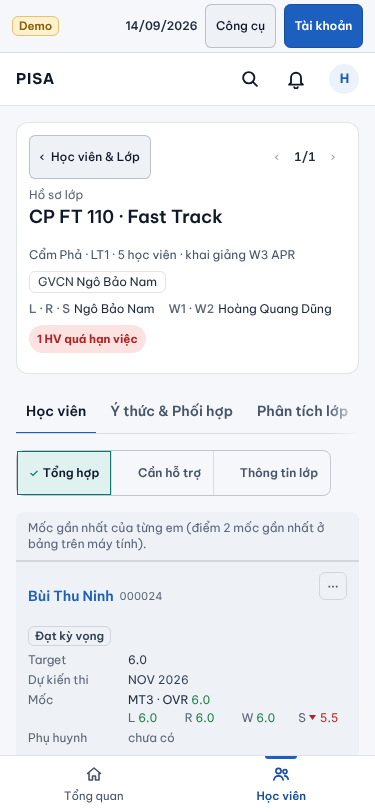
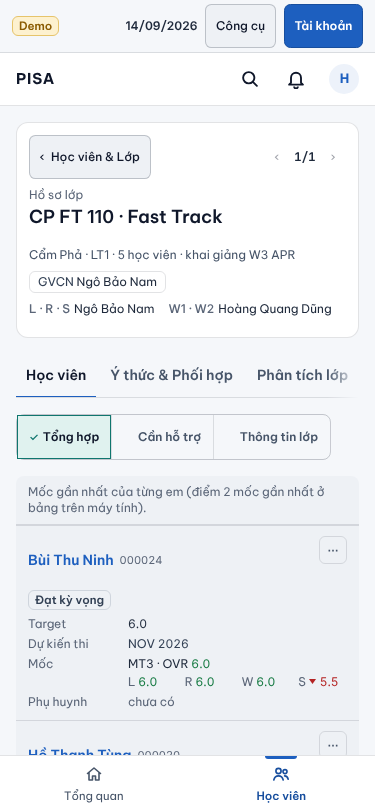
OV-10b: sửa theo npm run check — nhãn chip sang web (luật T7), placeholder "Ví dụ:", trần text-[11px], phép kiểm bền với dữ liệu bộ đầy đủ; chụp lại hồ sơ lớp 375
Claude-Session: https://claude.ai/code/session_01SEgWKp7SMcsDyWLbAngYzG

diff --git a/web/src/modules/students/HocVienTheoVai.tsx b/web/src/modules/students/HocVienTheoVai.tsx
@@ -13,7 +13,7 @@ import { sosTone } from '../../lib/format.ts';
 import { useThaoTacDongHocVien } from '../classes/thaoTacDongHocVien.tsx';
 import { KetQuaOHocVien } from './BangHocVienLop.tsx';
 import {
-  CHIP_VAI, CHIP_VAI_NHAN, PHAM_VI_NHAN, chipMacDinhVai, chuPhuHuynh, docChipVai, ketQuaGanNhat, maHocVienNgan, ngay, tenMon,
+  CHIP_VAI, PHAM_VI_NHAN, chipMacDinhVai, chuPhuHuynh, docChipVai, ketQuaGanNhat, maHocVienNgan, ngay, tenMon,
   type ChipVai, type ExamPlan, type KetQuaVao, type LienHe, type NguCanhDs,
 } from '@shared/domain/index.ts';
 
@@ -33,6 +33,16 @@ type TrangVai = {
   phamVi: { coThe: PhamViVai[]; dangDung: PhamViVai; chiNhanh: number | null };
   ids: Record<Exclude<ChipVai, 'tat-ca'>, number[]>;
   rows: DongVai[];
+};
+
+/** Nhãn chip TVV / CX (OV-10b) — số = `chipHocVien` (OV-10c, cùng ô Tổng quan). */
+const CHIP_VAI_NHAN: Record<ChipVai, { nhan: string; goiY: string }> = {
+  'tat-ca': { nhan: 'Tất cả', goiY: 'Mọi học viên trong phạm vi đang xem (chưa lưu trữ).' },
+  'can-chu-y': { nhan: 'Cần chú ý', goiY: 'SOS ở MT gần nhất, Case mới hoặc Ý thức trong 14 ngày, chờ Quản lý chọn bước tiếp sau thi.' },
+  'tam-dung': { nhan: 'Tạm dừng', goiY: 'Đang Tạm dừng học.' },
+  'sap-thi': { nhan: 'Sắp thi', goiY: 'Dự kiến thi IELTS trong 6 tuần tới.' },
+  thieu_tt: { nhan: 'Thiếu thông tin', goiY: 'Hồ sơ còn thiếu thông tin cần để xếp lịch và theo dõi (không tính liên hệ).' },
+  'cho-buoc-tiep': { nhan: 'Chờ QL chọn bước tiếp', goiY: 'Đã có kết quả thi thật, chờ Quản lý chọn bước tiếp.' },
 };
 
 const SELECT_GON = 'field h-8 w-auto !py-0 text-xs max-sm:min-h-[44px] max-sm:w-full';
@@ -220,7 +230,7 @@ export function HocVienTheoVai({ vai }: { vai: 'tvv' | 'cx' }) {
                   dau={(
                     <span className="flex min-w-0 flex-wrap items-center gap-x-1.5 gap-y-1">
                       <Link className="link font-semibold" to={`/hoc-vien/${d.id}`} state={{ ds }}>{d.ten}</Link>
-                      <span className="text-[11px] tabular-nums text-slate-500">{maHocVienNgan(d.ma)}</span>
+                      <span className="text-xs tabular-nums text-slate-500">{maHocVienNgan(d.ma)}</span>
                       <TrangThaiEm d={d} thieu={!!tap.thieu_tt?.has(d.id)} />
                     </span>
                   )}
@@ -252,7 +262,7 @@ export function HocVienTheoVai({ vai }: { vai: 'tvv' | 'cx' }) {
                     <td className="td h-14">
                       <span className="flex min-w-0 flex-wrap items-center gap-x-1.5 gap-y-0.5">
                         <Link className="link max-w-full truncate font-semibold" title={d.ten} to={`/hoc-vien/${d.id}`} state={{ ds }}>{d.ten}</Link>
-                        <span className="shrink-0 text-[11px] tabular-nums text-slate-500">{maHocVienNgan(d.ma)}</span>
+                        <span className="shrink-0 text-xs tabular-nums text-slate-500">{maHocVienNgan(d.ma)}</span>
                         <TrangThaiEm d={d} thieu={!!tap.thieu_tt?.has(d.id)} />
                       </span>
                     </td>

diff --git a/server/src/tests/prOv10b.tests.ts b/server/src/tests/prOv10b.tests.ts
@@ -37,17 +37,23 @@ export async function runPrOv10bTests(t: YThucTestKit) {
   const idAdmin = tao([{ role: 'office_admin', branches: ['MB'] }]);
   const mb = one(`SELECT id FROM branches WHERE code = 'MB'`).id as number;
   const lop = one(`SELECT id FROM classes WHERE code = 'MB FT 101'`).id as number;
+  /* Em chỉ một lớp đang học / giữ chỗ (các phép kiểm trước có thể để lại em nhiều dòng lớp). */
   const em = all(`SELECT s.id FROM students s JOIN enrollments e ON e.student_id = s.id AND e.status = 'active'
-      WHERE e.class_id = ? AND s.status = 'active' AND s.archived_at IS NULL ORDER BY s.id LIMIT 4`, lop).map((r) => r.id as number);
+      WHERE e.class_id = ? AND s.status = 'active' AND s.archived_at IS NULL
+        AND (SELECT COUNT(*) FROM enrollments x WHERE x.student_id = s.id AND x.status IN ('active', 'paused')) = 1 ORDER BY s.id LIMIT 4`, lop).map((r) => r.id as number);
+  /* GVCN / GVBM HIỆN TẠI của lớp (phân công có thể đã đổi ở các phép kiểm trước — không dùng `P.coreTeacher` chụp lúc đầu). */
+  const gvcn = one(`SELECT user_id id FROM teacher_assignments WHERE class_id = ? AND is_core = 1 AND status = 'active' ORDER BY id LIMIT 1`, lop)?.id;
+  const gvbm = one(`SELECT user_id id FROM teacher_assignments WHERE class_id = ? AND skill IS NOT NULL AND status = 'active'
+      AND user_id NOT IN (SELECT user_id FROM teacher_assignments WHERE class_id = ? AND is_core = 1 AND status = 'active') ORDER BY id LIMIT 1`, lop, lop)?.id;
   const vai = () => ({
     TVV: loadPrincipal(idTvv), CX: loadPrincipal(idCx), ADMIN: loadPrincipal(idAdmin), QL: P.mbManager, QT: P.admin,
-    GVCN: P.coreTeacher, GVBM: P.subjectTeacher,
+    GVCN: loadPrincipal(gvcn), GVBM: loadPrincipal(gvbm),
   });
   const hs = (id: number) => one('SELECT * FROM students WHERE id = ?', id);
   const LH = { phone: '0901 234 567', parentName: 'Phạm Văn Long', parentRelation: 'Bố', parentPhone: '+84 912.345-678' };
 
   check('OV10b-0 · dữ liệu thử đủ (MB FT 101, 4 em, TVV / CX / Admin)', () => {
-    assert(em.length === 4 && idTvv && idCx && idAdmin, `em ${em.length}`);
+    assert(em.length === 4 && idTvv && idCx && idAdmin && gvcn && gvbm, `em ${em.length} gvcn ${gvcn} gvbm ${gvbm}`);
   });
 
   check('OV10b-1 · migrate prOv10b: đủ 4 cột ở students; chạy lại không làm gì', () => {

diff --git a/shared/domain/hocVienLop.ts b/shared/domain/hocVienLop.ts
@@ -53,15 +53,7 @@ export const coONhapLienHe = (roles: readonly string[] | null | undefined): bool
 /** OV-10b: chip Học viên & Lớp của TVV / CX — số = `chipHocVien` (OV-10c, cùng ô Tổng quan). "Chờ QL chọn bước tiếp" chỉ hiện khi có em. */
 export const CHIP_VAI = ['tat-ca', 'can-chu-y', 'tam-dung', 'sap-thi', 'thieu_tt', 'cho-buoc-tiep'] as const;
 export type ChipVai = (typeof CHIP_VAI)[number];
-export const CHIP_VAI_NHAN: Record<ChipVai, { nhan: string; goiY: string }> = {
-  'tat-ca': { nhan: 'Tất cả', goiY: 'Mọi học viên trong phạm vi đang xem (chưa lưu trữ).' },
-  'can-chu-y': { nhan: 'Cần chú ý', goiY: 'SOS ở MT gần nhất, Case mới hoặc Ý thức trong 14 ngày, chờ Quản lý chọn bước tiếp sau thi.' },
-  'tam-dung': { nhan: 'Tạm dừng', goiY: 'Đang Tạm dừng học.' },
-  'sap-thi': { nhan: 'Sắp thi', goiY: 'Dự kiến thi IELTS trong 6 tuần tới.' },
-  thieu_tt: { nhan: 'Thiếu thông tin', goiY: 'Hồ sơ còn thiếu thông tin cần để xếp lịch và theo dõi (không tính liên hệ).' },
-  'cho-buoc-tiep': { nhan: 'Chờ QL chọn bước tiếp', goiY: 'Đã có kết quả thi thật, chờ Quản lý chọn bước tiếp.' },
-};
-/** CX mở ở "Cần chú ý" (không phải 1 000+ em), TVV ở "Tất cả" của HV mình. */
+/** CX mở ở chip `can-chu-y` (không phải 1 000+ em), TVV ở `tat-ca` của HV mình. Nhãn chip ở web (`HocVienTheoVai.tsx`). */
 export const chipMacDinhVai = (vai: 'tvv' | 'cx'): ChipVai => (vai === 'cx' ? 'can-chu-y' : 'tat-ca');
 export const docChipVai = (s: string | null | undefined, vai: 'tvv' | 'cx'): ChipVai =>
   (CHIP_VAI as readonly string[]).includes(s ?? '') ? (s as ChipVai) : chipMacDinhVai(vai);

diff --git a/server/src/worklist/hvCuaToi.ts b/server/src/worklist/hvCuaToi.ts
@@ -25,14 +25,14 @@ const MOI_NGAY = 14;
 export const CHIP_HOC_VIEN = ['can-chu-y', 'tam-dung', 'sap-thi', 'thieu_tt', 'cho-buoc-tiep'] as const;
 export type ChipHocVien = (typeof CHIP_HOC_VIEN)[number];
 export type SoHocVien = { phamVi: 'cua-toi' | 'chi-nhanh' | 'tat-ca'; tong: number; dem: Record<ChipHocVien, number> };
-/** OV-10b: vì sao em vào "Cần chú ý" — ghi NGAY trong vòng xếp chip (cột Cần chú ý của Học viên & Lớp đọc đúng lý do này). */
+/** OV-10b: vì sao em vào chip `can-chu-y` — ghi NGAY trong vòng xếp chip (cột tương ứng của Học viên & Lớp TVV / CX đọc đúng lý do này). */
 export type LyDoChuY = { sos?: number; caseMoi?: string[]; yThuc?: string; choBuocTiep?: true };
 
 const laTvv = (p: Principal) => p.roleKeys.includes('consultant');
 
 /**
  * Id học viên theo từng chip, trong phạm vi người xem (`student.view`). OV-10b: `phamVi` cho TVV xem "Cả chi nhánh" ở Học viên & Lớp (không truyền = như
- * Tổng quan: TVV "HV của tôi"); `tatCa` = mọi em trong phạm vi, `lyDo` = lý do Cần chú ý của từng em.
+ * Tổng quan: TVV "HV của tôi"); `tatCa` = mọi em trong phạm vi, `lyDo` = lý do chip `can-chu-y` của từng em.
  */
 export function chipHocVien(p: Principal, f: { branchId?: number | null; phamVi?: SoHocVien['phamVi'] } = {}): {
   phamVi: SoHocVien['phamVi']; tong: number; ids: Record<ChipHocVien, number[]>; tatCa: number[]; lyDo: Map<number, LyDoChuY>;

diff --git a/server/src/tests/prDh.tests.ts b/server/src/tests/prDh.tests.ts
@@ -104,7 +104,8 @@ export async function runPrDhTests(t: YThucTestKit) {
   check('PR-DH (2) · Học viên & Lớp: cả hai nhóm có cột "Dự kiến thi" (ExamPlanText ở bảng và thẻ), 8 cột khớp hàng lớp', () => {
     const sp = doc('web/src/modules/students/StudentsPage.tsx');
     assert(sp.includes("k === 'ft' ? 'Target' : 'Khoá', 'Dự kiến thi', 'Sắp tới', 'Case', 'Việc tiếp theo', ''"), 'tieuDeCot: Dự kiến thi sau Target/Khoá, không phân nhánh theo nhóm');
-    assert(/colSpan=\{4\}/.test(sp) && /soCot=\{8\}/.test(sp) && (sp.match(/min-w-\[960px\]/g) ?? []).length === 2, 'hàng lớp 3+4+1 cột, bảng min-w 960');
+    /* OV-10b: Admin có bảng riêng 1+2+1 (Lượt MT gần nhất · Ô chưa nhập); QL / GV giữ 3+4+1. */
+    assert(/colSpan=\{admin \? 2 : 4\}/.test(sp) && /soCot=\{admin \? 4 : 8\}/.test(sp) && (sp.match(/min-w-\[960px\]/g) ?? []).length === 2, 'hàng lớp 3+4+1 cột, bảng min-w 960');
     const bg = doc('web/src/modules/students/BangHocVienLop.tsx');
     assert((bg.match(/<ExamPlanText plan=\{s\.examPlan\}/g) ?? []).length === 2 && /chuSapToi\(/.test(bg), 'ExamPlanText ở bảng + thẻ, Sắp tới qua chuSapToi');
   });

diff --git a/server/src/classes/hocVienTheoVai.ts b/server/src/classes/hocVienTheoVai.ts
@@ -1,6 +1,6 @@
 /**
  * HỌC VIÊN & LỚP CỦA TVV / CX (OV-10b, mockup vai 13/10 mục 1 + 5) — một request cho cả trang: mỗi em một dòng theo việc của vai (trạng thái chữ,
- * lớp, Target · Dự kiến thi, kết quả gần nhất, Cần chú ý, phụ huynh, TVV, chi nhánh), web nhóm theo lớp và lọc chip tại chỗ.
+ * lớp, Target · Dự kiến thi, kết quả gần nhất, lý do chip `can-chu-y`, phụ huynh, TVV, chi nhánh), web nhóm theo lớp và lọc chip tại chỗ.
  * Tập em và chip = `chipHocVien` (OV-10c, cùng số ô Tổng quan) — không hàm đếm thứ hai; em Tạm dừng / Kết thúc học (chưa lưu trữ) vẫn có dòng.
  * QL / Quản trị / GV / Admin dùng bảng cũ (`danhSachHocVienLop`) — đường này 403.
  */

diff --git a/web/src/modules/students/StudentManagePanel.tsx b/web/src/modules/students/StudentManagePanel.tsx
@@ -555,7 +555,7 @@ function ThongTinPanel({ studentName, lop, onClose, onDone, student, cycle, atte
             </Truong>
             <Truong nhan={NHAN_LIEN_HE.parentRelation} tuyChon>
               <input className="field w-full" list="quan-he-goi-y" maxLength={LIEN_HE_TOI_DA.parentRelation} autoComplete="off"
-                value={lh.parentRelation} onChange={(e) => sua(setLh)({ ...lh, parentRelation: e.target.value })} placeholder="Bố, mẹ…" />
+                value={lh.parentRelation} onChange={(e) => sua(setLh)({ ...lh, parentRelation: e.target.value })} placeholder="Ví dụ: Bố" />
               <datalist id="quan-he-goi-y">{QUAN_HE_GOI_Y.map((x) => <option key={x} value={x} />)}</datalist>
             </Truong>
           </div>
